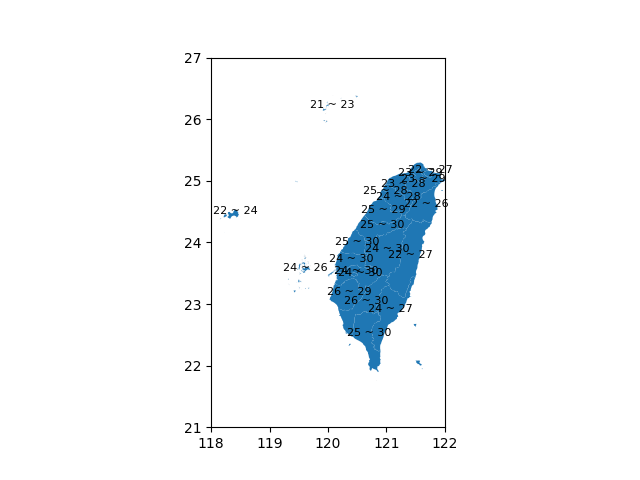
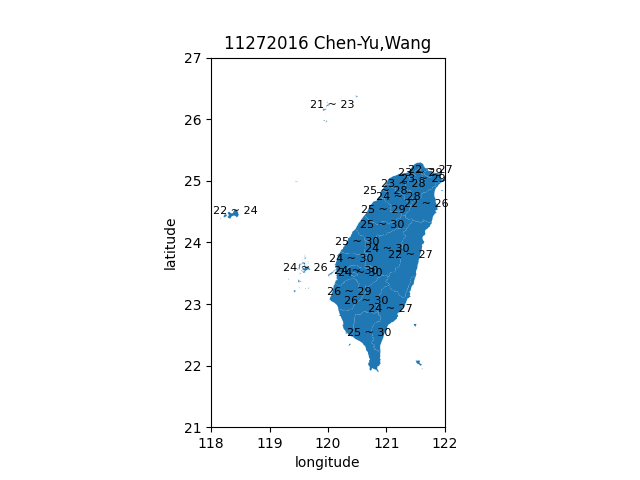
0836

Changed region(s): [[0.3438, 0.0625, 0.6875, 0.125], [0.4688, 0.9375, 0.5625, 1.0], [0.25, 0.4375, 0.2812, 0.5625]]

diff --git a/20240402/11272016_2.py b/20240402/11272016_2.py
@@ -15,7 +15,6 @@ taiwan.plot()
 plt.xlim(118,122)
 plt.ylim(21,27)
 
-
 # 在地圖上標出對應的溫度
 for i, row in weather_data.iterrows():
     temp = row['Temperature']
@@ -23,6 +22,11 @@ for i, row in weather_data.iterrows():
     city_geom = taiwan.loc[taiwan['COUNTYNAME'] == row['City']].geometry.unary_union.centroid
     # 在繪製文字時使用設定的字體
     plt.text(city_geom.x-0.35, city_geom.y, f'{temp}', fontsize=8)
+
+# 設定 x 軸、y 軸的標籤和圖表的標題
+plt.xlabel('longitude')
+plt.ylabel('latitude')
+plt.title('11272016 Chen-Yu,Wang')
 
 plt.show()
 
